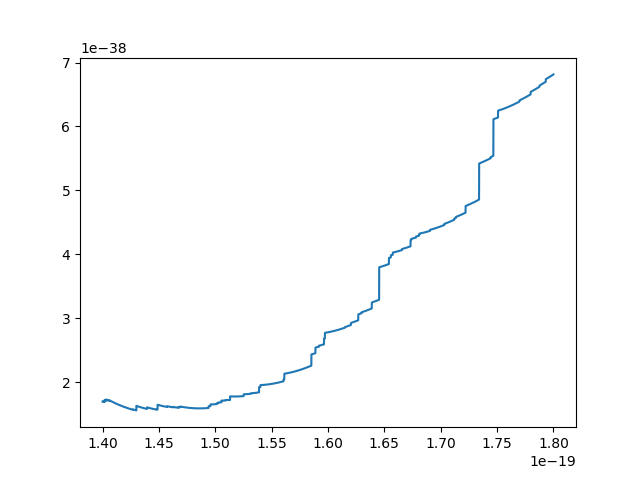
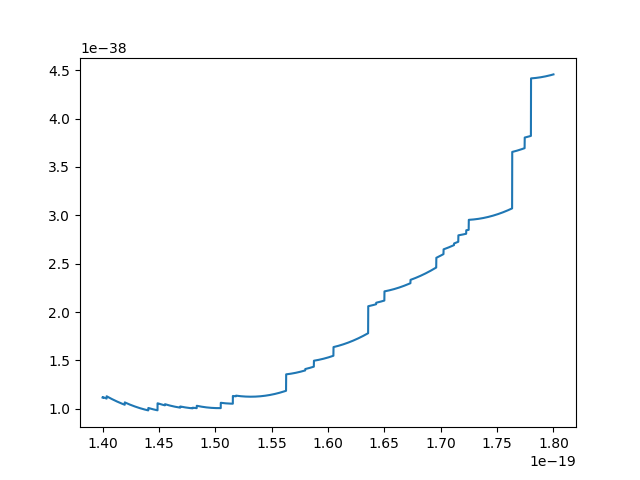
Millikan - Modified analysis

diff --git a/2/analysis/millikan.py b/2/analysis/millikan.py
@@ -3,9 +3,10 @@ import matplotlib.pyplot as plt
 import pandas as pd
 
 dataset = pd.read_csv("charges.csv")
+dataset_err = pd.read_csv("charges_err.csv")
 
 charges = dataset['q'].to_numpy()
-charges = np.sort(charges)
+charges_err = dataset_err['err'].to_numpy()
 
 def S(q):
     sum = 0
@@ -13,11 +14,19 @@ def S(q):
         sum += (q - (Q / np.floor(0.5 + (Q / q))))**2
     return sum
 
-q = np.linspace(1.4e-19, 1.8e-19, 1000000)
+q = np.linspace(1.4e-19, 1.8e-19, 10000)
 
 plt.plot(q, S(q))
 plt.savefig("graph_py.png")
 
-x = np.arange(charges.shape[0])
-plt.plot(x, charges)
-plt.show()
+min = q[0]
+for i in range(len(q)):
+    if (S(q[i]) < S(min)):
+        min = q[i]
+print("min:", min)
+print("err-stat:", np.sqrt(S(min) / (len(charges) * (len(charges) - 1))))
+
+err = 0
+for i in range(len(charges)):
+    err += charges_err[i] / (len(charges) * np.floor(0.5 + (charges[i] / min)))
+print("err-sist:", err)
